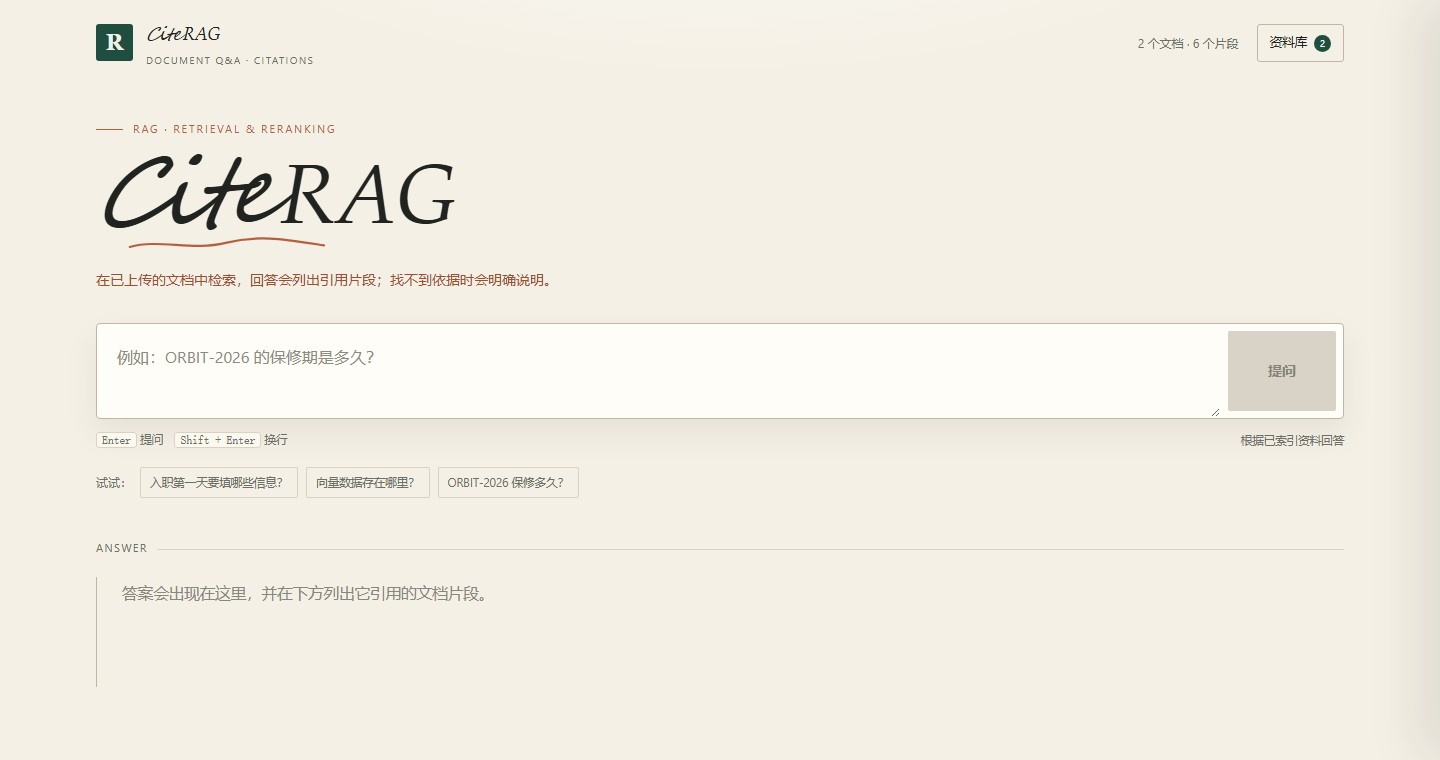
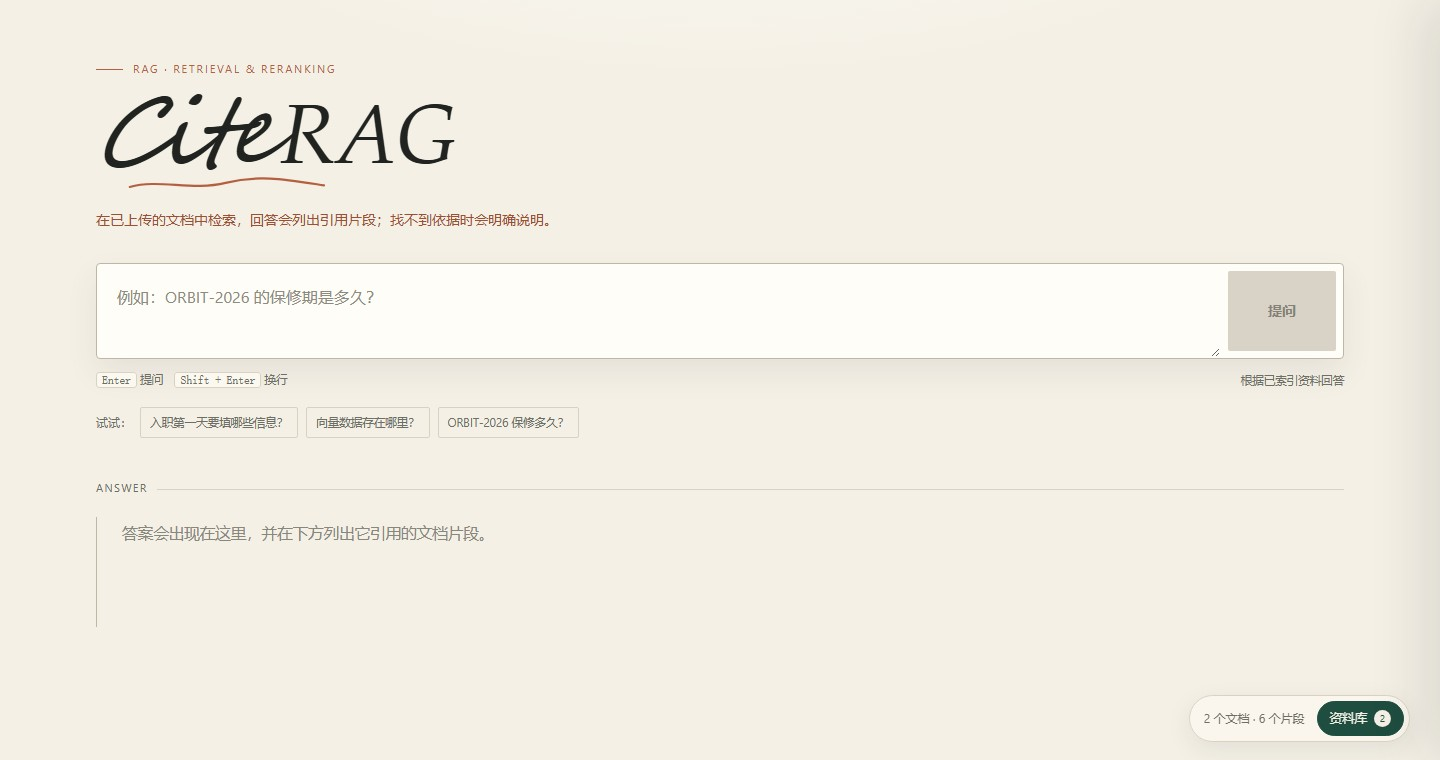
移除顶部品牌栏，资料库改为右下浮动入口

diff --git a/static/index.html b/static/index.html
@@ -36,29 +36,21 @@
     button, input, textarea { font: inherit; }
     button { cursor: pointer; }
     button:disabled { cursor: not-allowed; opacity: .45; }
-    .page { max-width: 1320px; margin: 0 auto; padding: 0 36px 80px; }
-    .topbar {
-      display: flex; align-items: center; justify-content: space-between;
-      gap: 18px; height: 86px;
+    .page { max-width: 1320px; margin: 0 auto; padding: 26px 36px 96px; }
+    .dock {
+      position: fixed; right: clamp(16px, 2.4vw, 30px); bottom: clamp(16px, 2.4vh, 26px);
+      z-index: 30; display: flex; align-items: center; gap: 12px;
+      padding: 5px 5px 5px 14px; border: 1px solid var(--line);
+      border-radius: 999px; background: #faf7efd9;
+      backdrop-filter: blur(8px); box-shadow: 0 8px 26px #1d211b14;
     }
-    .brand { display: flex; align-items: center; gap: 13px; }
-    .mark {
-      display: grid; place-items: center; width: 37px; height: 37px;
-      background: var(--forest); color: #f4f0e6; border-radius: 3px;
-      font-family: var(--serif); font-size: 22px; font-weight: 700;
+    .dock-count { color: var(--muted); font-size: 12px; white-space: nowrap; }
+    .dock .library-button {
+      border-color: var(--forest); background: var(--forest);
+      color: #f4f0e6; border-radius: 999px; padding: 6px 12px;
     }
-    .brand strong { display: flex; align-items: baseline; gap: 2px; font-size: 18px; letter-spacing: -.5px; }
-    .brand .cite { font-family: "Segoe Script", "Brush Script MT", Georgia, serif; font-style: italic; font-weight: 400; letter-spacing: -0.8px; }
-    .brand .rag {
-      font-family: "Palatino Linotype", Palatino, "Book Antiqua", Georgia, serif;
-      font-style: italic; font-weight: 400; letter-spacing: -.2px;
-    }
-    .brand small {
-      display: block; color: var(--muted); margin-top: 1px;
-      font-size: 9.5px; letter-spacing: 1.7px;
-    }
-    .top-actions { display: flex; align-items: center; gap: 18px; }
-    .count { color: var(--muted); font-size: 12px; }
+    .dock .library-button:hover { background: #163a30; border-color: #163a30; color: #fff; }
+    .dock .library-button span { background: #f4f0e6; color: var(--forest); }
     .library-button {
       display: inline-flex; align-items: center; gap: 7px;
       border: 1px solid var(--line-strong); background: transparent;
@@ -233,11 +225,11 @@
       border-left: 2px solid var(--line); padding-left: 10px;
     }
     @media (max-width: 680px) {
-      .page { padding: 0 18px 50px; }
+      .page { padding: 18px 18px 84px; }
       .wordmark { font-size: 58px; letter-spacing: -3px; }
       .signature { width: 76%; }
-      .topbar { height: 70px; }
-      .count { display: none; }
+      .dock { gap: 0; padding: 4px; }
+      .dock-count { display: none; }
       .hero { padding-top: 34px; }
       .hero h1 { font-size: 30px; }
       .ask { display: block; }
@@ -255,19 +247,6 @@
 </head>
 <body>
   <div class="page">
-    <header class="topbar">
-      <div class="brand">
-        <div class="mark">R</div>
-        <div><strong><span class="cite">Cite</span><span class="rag">RAG</span></strong><small>DOCUMENT Q&amp;A · CITATIONS</small></div>
-      </div>
-      <div class="top-actions">
-        <span class="count" id="topCount">0 个文档 · 0 个片段</span>
-        <button class="library-button" id="openLibrary" type="button">
-          资料库 <span id="libraryCount">0</span>
-        </button>
-      </div>
-    </header>
-
     <section class="hero">
       <div class="eyebrow">RAG · RETRIEVAL &amp; RERANKING</div>
       <h1 class="wordmark" aria-label="CiteRAG">
@@ -305,6 +284,13 @@
         <div class="error" id="errorBox" hidden></div>
       </div>
     </section>
+  </div>
+
+  <div class="dock">
+    <span class="dock-count" id="topCount">0 个文档 · 0 个片段</span>
+    <button class="library-button" id="openLibrary" type="button">
+      资料库 <span id="libraryCount">0</span>
+    </button>
   </div>
 
   <div class="drawer-backdrop" id="drawerBackdrop" hidden></div>
